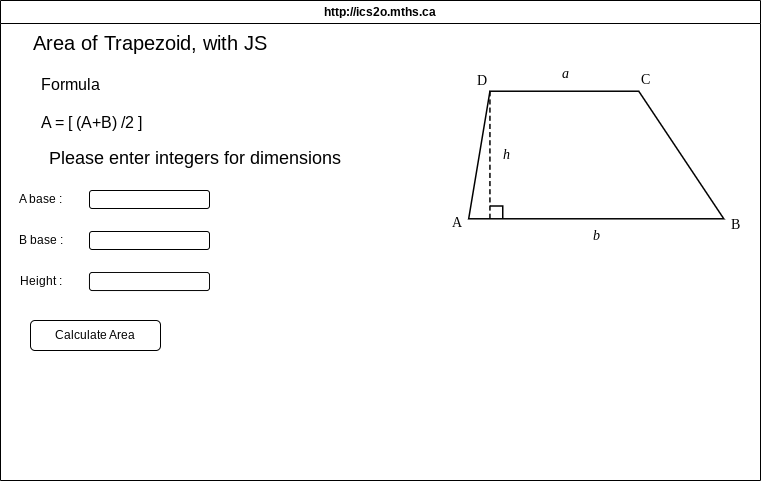
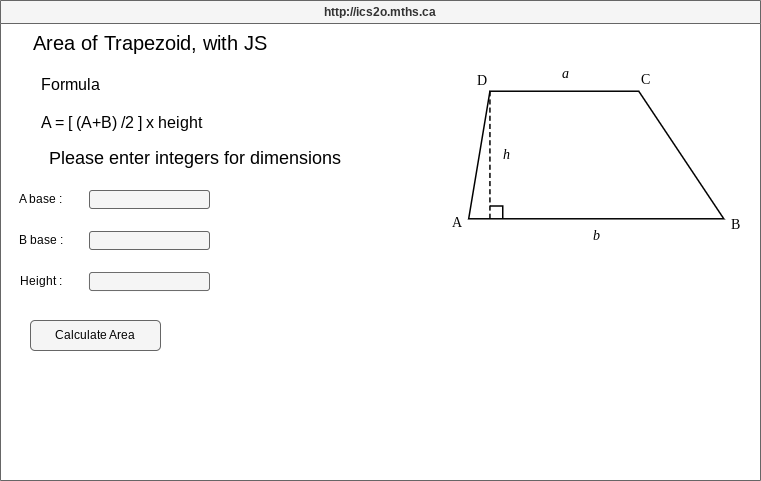
Finished project

diff --git a/js/script.js b/js/script.js
@@ -1,5 +1,22 @@
 // Copyright (c) 2020 Mr. Coxall All rights reserved
 //
-// Created by: Mr. Coxall
-// Created on: Sep 2020
+// Created by: Lucas Osmond
+// Created on: March 2023
 // This file contains the JS functions for index.html
+
+'use strict'
+/**
+ * This function calculates area and perimeter of triangle.
+ */
+function calculate () {
+  // input
+  const abase = parseInt(document.getElementById('a-base-of-trapezoid').value)
+  const bbase = parseInt(document.getElementById('b-base-of-trapezoid').value)
+  const height = parseInt(document.getElementById('height-of-trapezoid').value)
+
+  // process
+  const area = [(abase + bbase) / 2] * height
+
+  // output
+  document.getElementById('area').innerHTML = 'Area is: ' + area + ' cm²'
+}

diff --git a/index.html b/index.html
@@ -19,7 +19,7 @@
     <link rel="icon" type="image/png" sizes="32x32" href="favicon-32x32.png" />
     <link rel="icon" type="image/png" sizes="16x16" href="favicon-16x16.png" />
     <link rel="manifest" href="site.webmanifest" />
-    <title class="mdl-layout-header">Area of a Triangle</title>
+    <title class="mdl-layout-header">Area of a Trapezoid</title>
   </head>
   <body>
     <script defer src="https://code.getmdl.io/1.3.0/material.min.js"></script>
@@ -38,7 +38,7 @@
             </p>
             <p>
               <h2>Formulas</h2>
-              <h3>A = B x H / 2</h3>
+              <h3>A = [(a + b) / 2] x h</h3>
             </p>
           </div>
         </table>
